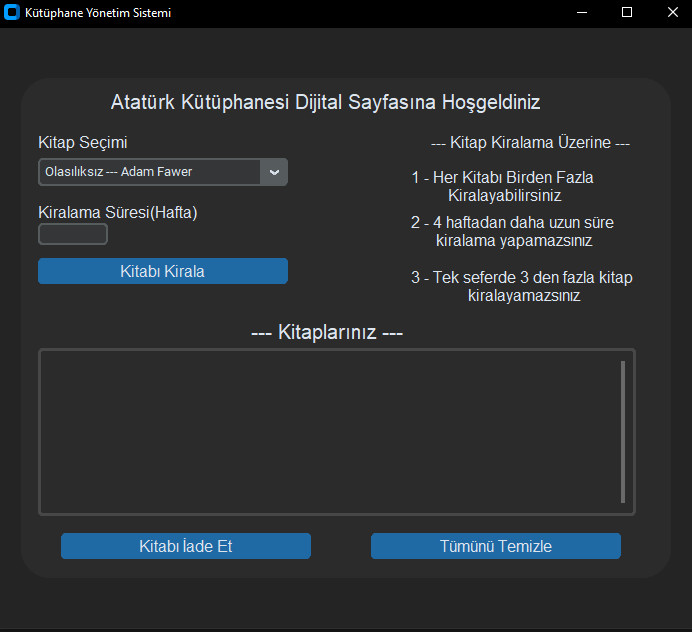
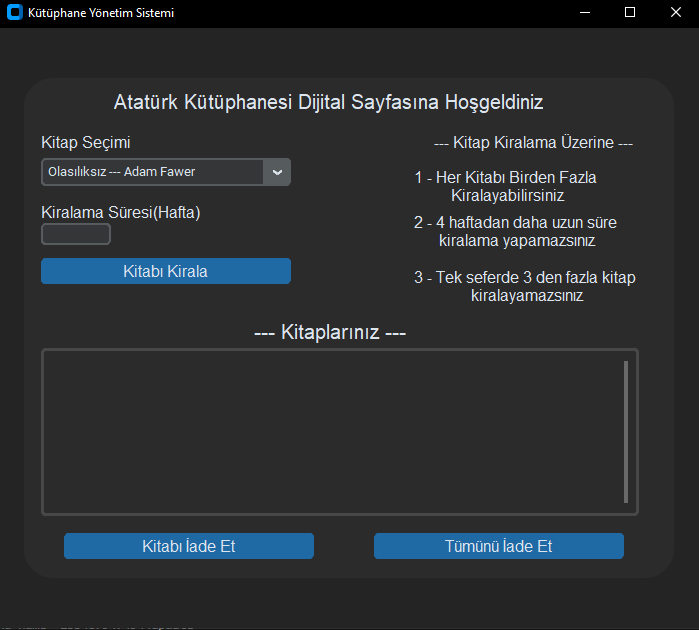
Add files via upload

diff --git a/KYS_Main0.py b/KYS_Main0.py
@@ -1,0 +1,206 @@
+import tkinter as tk
+from tkinter import messagebox
+from customtkinter import *
+from CTkListbox import * 
+
+
+kullanici_bilgileri = {'isim': '', 'soyisim': ''}
+
+
+def kaydet():
+    with open("kullanici_bilgileri.txt", "w") as dosya:
+        dosya.write(f"isim: {isim_entry.get()}\n")
+        dosya.write(f"soyisim: {soyisim_entry.get()}\n")
+
+def yükle():
+    kullanici_bilgileri = {}
+    dosya_adı = "kullanici_bilgileri.txt"
+    if os.path.exists(dosya_adı):
+        with open(dosya_adı, "r") as dosya:
+            for satir in dosya:
+                satir = satir.strip()
+                if satir:
+                    parcalar = satir.split(":")
+                    if len(parcalar) == 2:
+                        anahtar, deger = parcalar[0].strip(), parcalar[1].strip()
+                        kullanici_bilgileri[anahtar] = deger
+                    else:
+                        print(f"Hatalı biçimlendirilmiş satır: {satir}")
+    else:
+        print(f"{dosya_adı} adlı dosya bulunamadı. Otomatik olarak oluşturulacak.")
+        # Dosyayı otomatik olarak oluştur
+        with open(dosya_adı, "w") as dosya:
+            dosya.write("isim: \n")
+            dosya.write("tC: \n")
+    return kullanici_bilgileri
+
+
+def giriş_yap_üye():
+    isim = isim_entry.get()
+    soyisim = soyisim_entry.get()
+
+    if len(isim) + len(soyisim) < 5:
+        messagebox.showerror('Hata', 'İsim 5 karakterden az olamaz.')
+        return
+
+    kullanici_bilgileri['isim'] = isim
+    kullanici_bilgileri['soyisim'] = soyisim
+
+    kullanici_bilgilerini_kaydet(kullanici_bilgileri)
+
+    messagebox.showinfo("Başarılı","Üye Kaydınız Oluşturulmuştur.\nKütüphanemize Hoşgeldiniz!")
+    root_log.destroy()
+    kütüpahane_sistemine_giriş()
+
+
+def kullanici_bilgilerini_kaydet(bilgiler):
+    with open("kullanici_bilgileri.txt", "w") as dosya:
+        for anahtar, deger in bilgiler.items():
+            dosya.write(f"{anahtar}: {deger}\n")
+
+
+class Üye:
+    def __init__(self, isim, soyisim):
+        self.isim = isim
+        self.soyisim = soyisim
+
+
+    def __str__(self):
+        return f"{self.isim} {self.soyisim}"
+    
+class Kitap:
+    def __init__(self,kitap_ıd,ad,yazar):
+        self.kitap_ıd = kitap_ıd
+        self.ad = ad
+        self.yazar = yazar
+        self.kitap_durum = True
+
+    def kitap_kontrol(self):
+        return self.kitap_durum
+    
+
+    def __str__(self):
+        return f"{self.ad} - {self.yazar}"
+
+class Odunc:
+    def __init__(self, kitap, süre, üye):
+        self.kitap = kitap
+        self.süre = süre
+        self.üye = üye
+
+
+def kütüpahane_sistemine_giriş():
+    root = CTk()
+    root.title('Kütüphane Yönetim Sistemi')
+    root.geometry("700x600")
+    frame = CTkFrame(master=root, width=650 , height=500 , corner_radius=30,)
+    frame.place(relx=0.5, rely=0.5, anchor=tk.CENTER )
+
+    label_giriş = CTkLabel(master=frame,text="Atatürk Kütüphanesi Dijital Sayfasına Hoşgeldiniz",font=('Arial',20))
+    label_giriş.place(x=90, y=10)
+
+    l1 = CTkLabel(master=frame,text="--- Kitap Kiralama Üzerine ---",font=('Arial',16))
+    l1.place(x=410,y=50)
+
+    l2 = CTkLabel(master=frame,text="1 - Her Kitabı Birden Fazla\n Kiralayabilirsiniz",font=('Arial',16))
+    l2.place(x=390,y=90)
+
+    l3 = CTkLabel(master=frame,text="2 - 4 haftadan daha uzun süre\n kiralama yapamazsınız",font=('Arial',16))
+    l3.place(x=390,y=135)
+
+    l4 = CTkLabel(master=frame,text="3 - Tek seferde 3 den fazla kitap \nkiralayamazsınız",font=('Arial',16))
+    l4.place(x=390,y=190)
+
+
+    label_kitaplar = CTkLabel(master=frame,text="Kitap Seçimi",font=('Arial',16))
+    label_kitaplar.place(x=17, y=50)
+    sec_kitaplar = CTkComboBox(master=frame, values=kitaplar_adlar ,width=250)
+    sec_kitaplar.place(x=17, y=80)
+
+    label_odunc_sure = CTkLabel(master=frame,text="Kiralama Süresi(Hafta)",font=('Arial',16))
+    label_odunc_sure.place(x=17, y=120)
+    entry_odunc_sure = CTkEntry(master=frame,width=70,height=20)
+    entry_odunc_sure.place(x=17, y=145)
+
+
+    label_kiralanan_kitaplar = CTkLabel(master=frame,text="--- Kitaplarınız ---",font=('Arial',20))
+    label_kiralanan_kitaplar.place(x=230, y=240)
+    listbox_kiralanan_kitaplar = CTkListbox(master=frame, width=570, height=150,)
+    listbox_kiralanan_kitaplar.place(x=17, y=270)
+
+
+    def odunc_al():
+        if listbox_kiralanan_kitaplar.size() >= 3:
+            messagebox.showerror("Hata", "Maksimum 3 kitap kiralanabilir.")
+            return
+
+        isim = kullanici_bilgileri.get('isim')
+        soyisim = kullanici_bilgileri.get('soyisim')
+        kitap = sec_kitaplar.get()
+        süre = entry_odunc_sure.get()
+
+        if not süre.strip():  # Check if süre is empty after stripping whitespace
+            messagebox.showerror("Hata", "Kiralama Süresi boş bırakılamaz.")
+            return
+    
+        listbox_kiralanan_kitaplar.insert(tk.END, f"{kitap}, {isim} {soyisim} adına {süre} hafta süre ile kiralanmıştır")
+        messagebox.showinfo("Başarılı", "Kitap Kiralama İşlemi Başarılı Bir Şekilde Gerçekleşmiştir")
+
+
+    btn_kirala = CTkButton(master=frame, width=250, height=27, text="Kitabı Kirala",font=('Arial',16),command=odunc_al)
+    btn_kirala.place(x=17,y=180)
+    
+    
+    def odunc_ipt():
+        selected_index = listbox_kiralanan_kitaplar.curselection()
+        listbox_kiralanan_kitaplar.delete(selected_index)
+        messagebox.showinfo("Başarılı", "Kitap İade İşlemi Başarılı Bir Şekilde Gerçekleşmiştir")
+
+
+    btn_iade = CTkButton(master=frame, width=250 , height=27 , text="Kitabı İade Et",font=('Arial',16),command=odunc_ipt)
+    btn_iade.place(x=40, y=455)
+
+    def tümünü_iade_et():
+        listbox_kiralanan_kitaplar.delete(0, tk.END)
+
+    btn_temizle = CTkButton(master=frame, width=250, height=27, text="Tümünü İade Et", font=('Arial', 16), command=tümünü_iade_et)
+    btn_temizle.place(x=350, y=455)
+    
+    root.mainloop()
+
+
+# Bileşenler
+kir_kitap = {}
+kitaplar = [Kitap("1","Olasılıksız","Adam Fawer"),
+            Kitap("2","1984","Gerorge Orwell"),
+            Kitap("3","Tehlikeli Oyunlar","Oğuz Atay"),
+            Kitap("4","Son Dilek","Andrew Sapkowski"),
+            Kitap("5","Simyacı","Paulo Coelho"),
+            Kitap("6","Babalar Ve Oğullar","İvan Turgenvey")]
+kitaplar_adlar = [f"{kitap.ad} --- {kitap.yazar}" for kitap in kitaplar]
+
+#  ------ Logın Page -------#
+root_log = CTk()
+root_log.geometry('400x400')
+root_log.title('Logın Page')
+
+f1 = CTkFrame(master=root_log,width=250,height=350)
+f1.place(x=80,y=20)
+
+l1 = CTkLabel(master=f1,text="Giriş Yap",font=("Helvetica", 22))
+l1.place(x=75,y=30)
+
+label_isim = CTkLabel(master=f1,text="İsim",font=('Arial',16))
+label_isim.place(x=50, y=90)
+isim_entry = CTkEntry(master=f1,width=140, height=23)
+isim_entry.place(x=50, y=125)
+
+label_soyisim = CTkLabel(master=f1,text="Soyisim",font=('Arial',16))
+label_soyisim.place(x=50, y=160)
+soyisim_entry = CTkEntry(master=f1,width=140, height=20)
+soyisim_entry.place(x=50, y=195)
+
+btn_giriş_yap_ = CTkButton(master=f1,text='Giriş Yap',font=('Arial',16),width=140, height=23,command=giriş_yap_üye)
+btn_giriş_yap_.place(x=50, y=245)
+
+root_log.mainloop()
